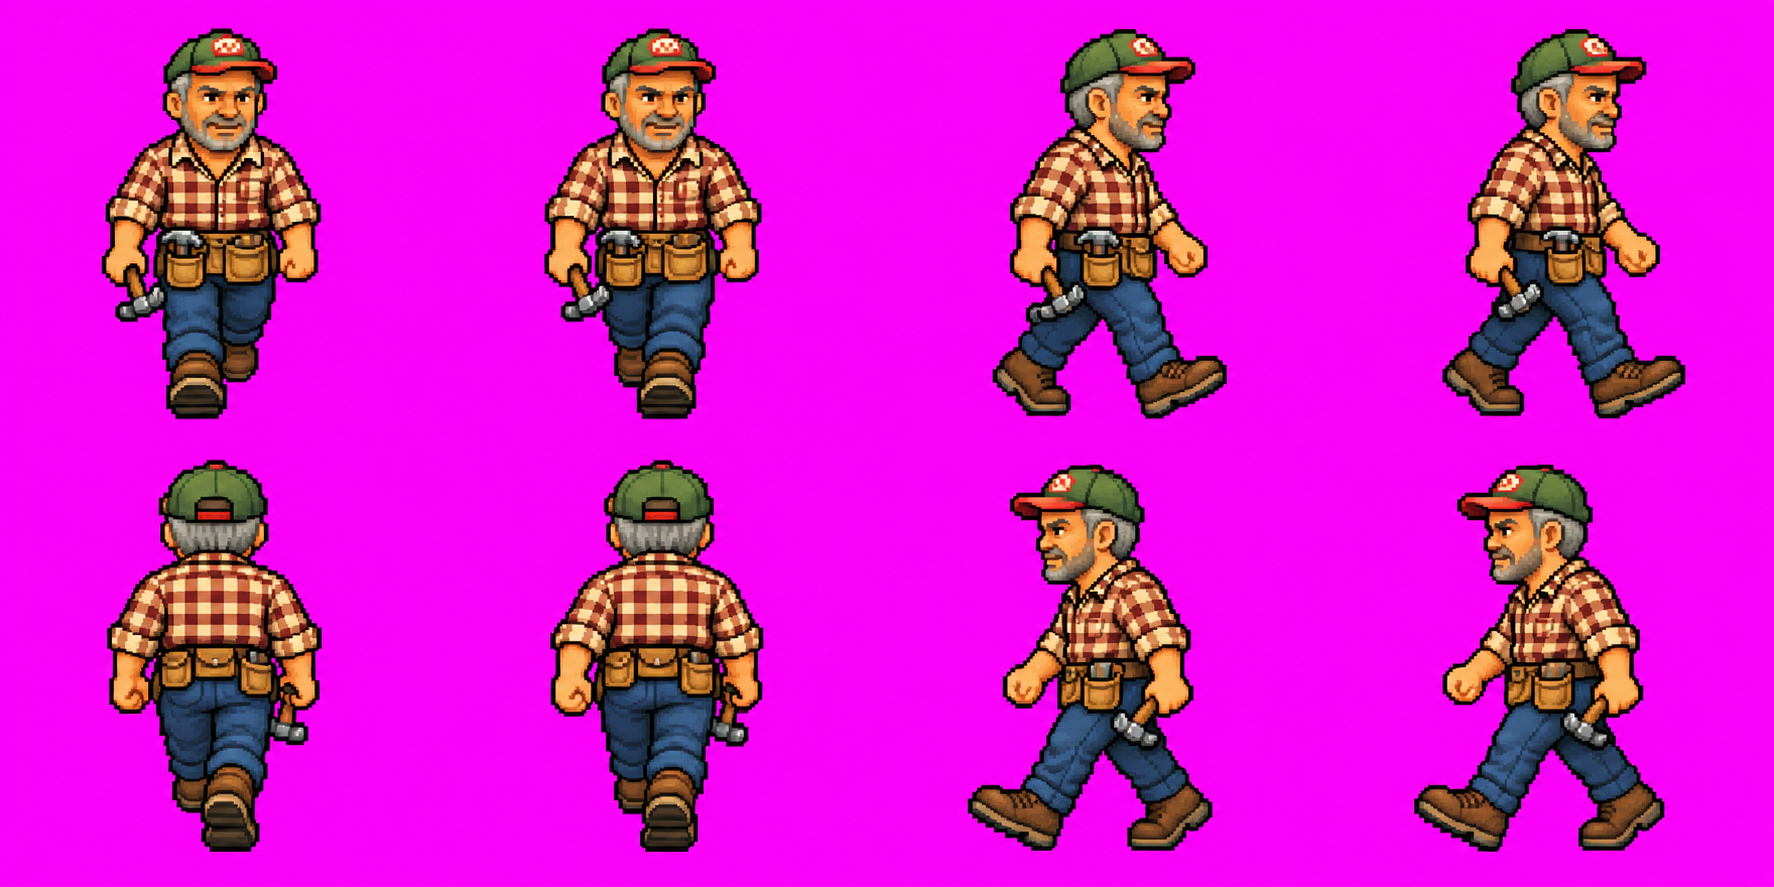
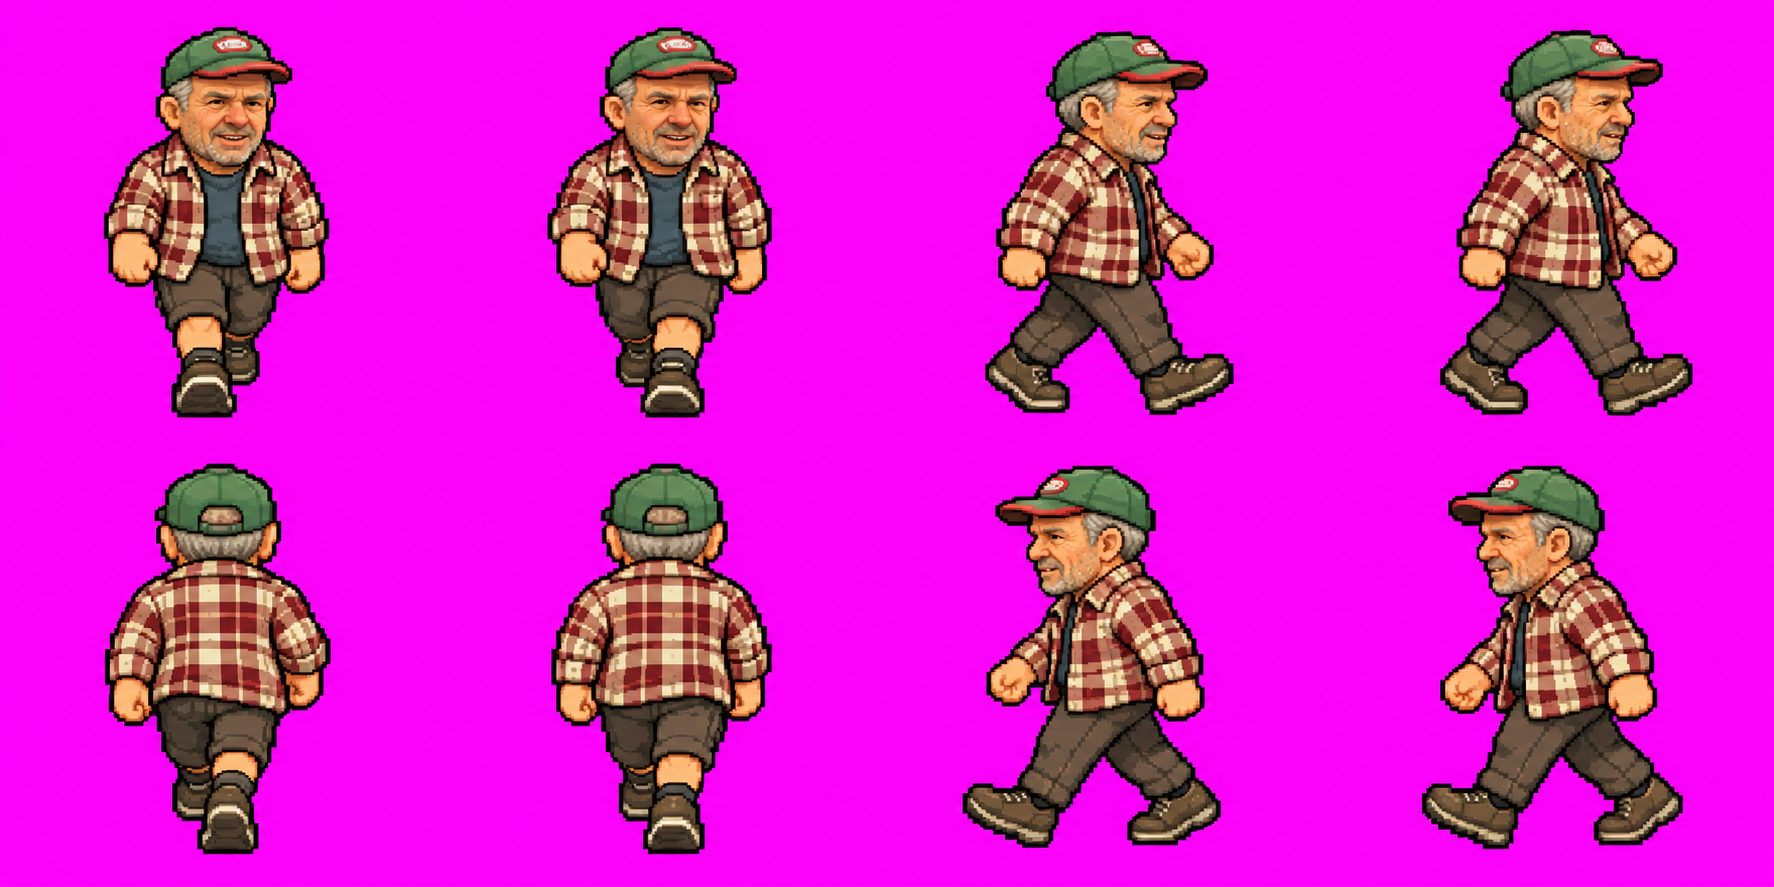
Redesign Wesołych Świąt, Kasia (student), Mateusz (student): new walk sheets, 41 poses, portraits; style canon

diff --git a/gen/cast_npc/gen_redo.py b/gen/cast_npc/gen_redo.py
@@ -1,0 +1,72 @@
+#!/usr/bin/env python3
+"""Redesign walk sheets (Tomek 2026-10-27): WESOŁYCH ŚWIĄT from a real photo (approved for Codex, never in git),
+KASIA without the cowboy outfit (student), MATEUSZ as a student (no litter picking).
+
+Refs: 1 = BERCIK 4x2 layout template, 2 = style canon (Arek/Iwona/Halina: line weight, chunkiness, head+hand size),
+3 = identity (photo / old sprite for the face only / none).
+    python gen/cast_npc/gen_redo.py <id> [<id> ...]      # 2 variants each -> gen/cast_npc/<id>/redo_<v>_raw.png
+"""
+from __future__ import annotations
+import subprocess, sys
+from concurrent.futures import ThreadPoolExecutor
+from pathlib import Path
+
+ROOT = Path(__file__).resolve().parents[2]
+CANON_ROOT = Path("C:/Users/Lenovo/Hermes/projects/games/arek-w-chlopkowie")   # references/ lives only in the canonical checkout
+PY = r"C:/Users/Lenovo/AppData/Local/hermes/hermes-agent/.venv/Scripts/python.exe"
+TEMPLATE = ROOT / "gen/bercik/bercik_walkcycle_raw.png"
+CANON = ROOT / "gen/style_canon/canon_ref.png"
+
+BASE = ("Image 1 is the layout template: a 4x2 grid of eight chunky low-resolution pixel-art walking figures on a pure magenta "
+        "background. Image 2 is the STYLE CANON (Arek, Iwona, Halina): copy its bold dark outline weight, big chunky pixel blocks, "
+        "flat 2-3 step shading and especially its generous head size and chunky hands: the head must be about one third of the body "
+        "height, hands and feet clearly readable, never a thin or fine-pixelated figure. Redraw the Image 1 grid with exactly the "
+        "same layout, order, scale, cell spacing and pixel size, but with {who}. {look} "
+        "Layout: row 1 = walk down A, walk down B, walk right A, walk right B; row 2 = walk up A, walk up B, walk left A, walk left B. "
+        "Exactly eight isolated complete equal-scale figures with clear alternating steps, front/back/true side profiles; the back view "
+        "shows the back of the same outfit. Chunky pixel art around 75px content height, 24-32 colours, upper-left light. "
+        "Pure flat magenta #FF00FF background, no text, no ground, no shadows, no checkerboard, no overlapping cells.")
+
+CAST = {
+    "wesoly_swiat": dict(
+        ident=CANON_ROOT / "references/wesoly_swiat/wesoly_swiat_ref.png",
+        who="WESOŁYCH ŚWIĄT, the older man shown in Image 3 (a photo)",
+        looks=["Copy his face, age, weathered lined skin, short grey hair, green baseball cap with small emblem and the heavy plaid flannel overshirt in red, brown, cream and maroon from the photo; dark trousers, sturdy boots. Friendly, slightly stocky.",
+               "Same man as the photo in Image 3: green cap, plaid red/brown/cream flannel overshirt, weathered face, short grey hair, dark work trousers and boots, hands in the pockets while walking."]),
+    "kasia": dict(
+        ident=ROOT / "gen/npc_src/kasia.png",
+        who="KASIA, a young woman who is now a university student (Image 3 is her OLD sprite: keep ONLY her face and long brown hair)",
+        looks=["Replace the whole outfit: NO cowboy hat, NO vest, NO skirt, NO boots, NO bag strap from the old sprite. New outfit: oversized cream knit sweater, light blue jeans, white sneakers, a canvas backpack on both shoulders, long brown hair loose.",
+               "Replace the whole outfit: NO cowboy hat, NO pink, NO skirt, NO boots. New outfit: short denim jacket over a striped t-shirt, dark jeans, white sneakers, a tote bag with books on one shoulder, long brown hair in a ponytail."]),
+    "mateusz": dict(
+        ident=None,
+        who="MATEUSZ, a young male university student",
+        looks=["Short messy dark-brown hair, round glasses, grey zip hoodie, blue jeans, white sneakers, a green backpack on both shoulders, headphones around the neck. NO high-visibility vest, NO trash bag, NO litter grabber.",
+               "Short messy dark-brown hair, no glasses, olive bomber jacket over a white t-shirt, black jeans, sneakers, a laptop bag across the chest, a notebook in one hand. NO high-visibility vest, NO trash bag, NO litter grabber."]),
+}
+
+
+def run(job):
+    cid, v = job
+    c = CAST[cid]; out = ROOT / f"gen/cast_npc/{cid}"; out.mkdir(parents=True, exist_ok=True)
+    raw = out / f"redo_{v}_raw.png"
+    if raw.exists():
+        return f"{cid}/{v}: exists"
+    cmd = [PY, str(ROOT / "gen/codex_gen.py"), "--ref", str(TEMPLATE), "--ref", str(CANON)]
+    if c["ident"]:
+        cmd += ["--ref", str(c["ident"])]
+    cmd += ["--aspect", "landscape", "--out", str(raw), "--prompt", BASE.format(who=c["who"], look=c["looks"][v])]
+    for _ in range(3):
+        r = subprocess.run(cmd, capture_output=True, text=True, encoding="utf-8", errors="replace")
+        (out / f"redo_{v}.log").write_text((r.stdout + r.stderr)[-1500:], encoding="utf-8")
+        if r.returncode == 0 and raw.exists():
+            return f"{cid}/{v}: ok"
+    return f"{cid}/{v}: FAILED {(r.stdout + r.stderr)[-200:]}"
+
+
+if __name__ == "__main__":
+    ids = sys.argv[1:] or list(CAST)
+    jobs = [(i, v) for i in ids for v in (0, 1)]
+    with ThreadPoolExecutor(3) as ex:
+        for line in ex.map(run, jobs):
+            print(line, flush=True)

diff --git a/gen/style_canon/build_canon_ref.py b/gen/style_canon/build_canon_ref.py
@@ -1,0 +1,21 @@
+"""Style canon reference (Tomek 2026-10-27): IWONA, HALINA and AREK define line weight, chunkiness, head and hand size.
+Writes gen/style_canon/canon_ref.png = walk-down + walk-right frames of the three, upscaled 3x with NEAREST on a flat light ground.
+Used as an extra --ref image whenever a character is (re)generated. Run: python gen/style_canon/build_canon_ref.py"""
+import json
+from pathlib import Path
+from PIL import Image
+ROOT = Path(__file__).resolve().parents[2]
+D = ROOT / "docs" / "img"
+frames = []
+for cid, name in (("arek", "arek_sheet_8dir"), ("iwona", "iwona_sheet"), ("halina", "halina_sheet")):
+    im = Image.open(D / f"{name}.png").convert("RGBA"); m = json.load(open(D / f"{name}.json"))
+    for a in ("walk_down", "walk_right"):
+        f = m["anims"][a]["frames"][0]
+        c = im.crop((f["x"], f["y"], f["x"] + f["w"], f["y"] + f["h"])); frames.append(c.crop(c.getbbox()))
+H = max(f.height for f in frames); S = 3; gap = 40
+W = sum(f.width * S + gap for f in frames) + gap
+out = Image.new("RGB", (W, H * S + 2 * gap), (226, 224, 214)); x = gap
+for f in frames:
+    g = f.resize((f.width * S, f.height * S), Image.NEAREST)
+    out.paste(g, (x, gap + H * S - g.height), g); x += g.width + gap
+out.save(Path(__file__).with_name("canon_ref.png")); print(out.size)

diff --git a/gen/style_canon/README.md b/gen/style_canon/README.md
@@ -1,0 +1,10 @@
+# Kanon stylu postaci 🎨
+
+Zasady Tomka (2026-10-27) dla każdej nowej lub przerabianej postaci. Obraz wzorcowy: `canon_ref.png` (budowany przez `build_canon_ref.py`), dokładany jako dodatkowy `--ref` przy generowaniu.
+
+- **Wzorzec linii i stylu: IWONA, HALINA i AREK.** Grubość obrysu, duże bloki pikseli, płaskie cieniowanie 2-3 stopnie.
+- **Głowa i ręce: rozmiar pomiędzy nimi** (około jedna trzecia wysokości ciała na głowę, wyraźne, grube dłonie i stopy).
+- **Grube, zwarte postacie.** Nie cienkie ani drobno pikselowe (zły przykład: stary Marcin, Wiesio, Wesołych Świąt z drobnym wzorem kraty).
+- **Wysokie postacie (Wiesio, Kostek) mają za małą głowę.** Przy przeróbce powiększyć głowę, nie zmniejszać ciała.
+- Układ chodu: szablon BERCIK 4x2 (`gen/bercik/bercik_walkcycle_raw.png`), wysokość 75 px, build `gen/build_cast_walk.py`.
+- Zdjęcia osób: tylko tam, gdzie Tomek wyraźnie zezwolił (patrz `AGENTS.md`), nigdy do gita.
